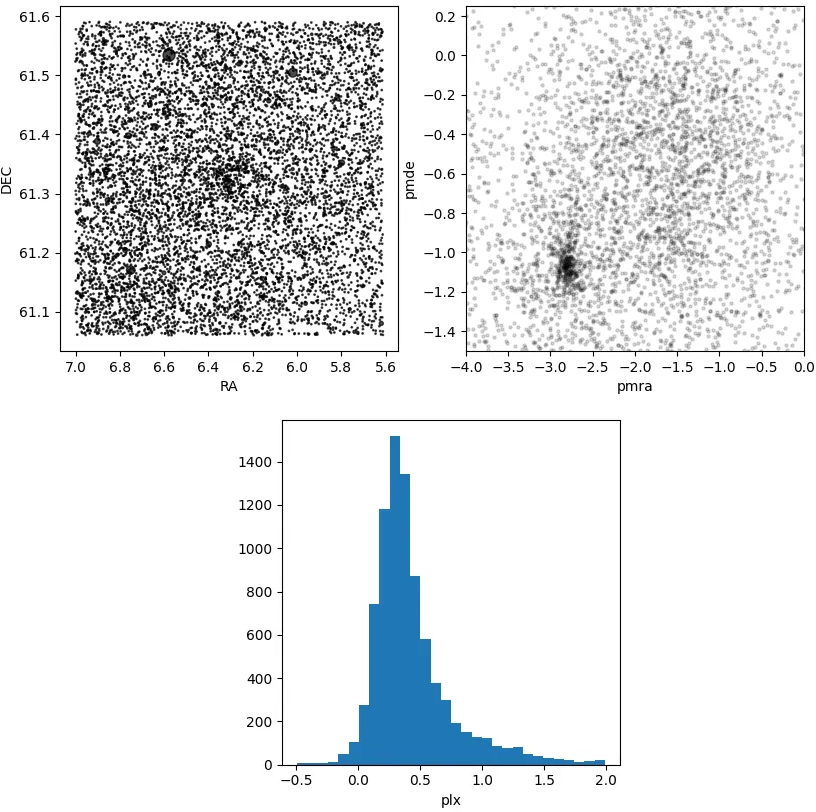
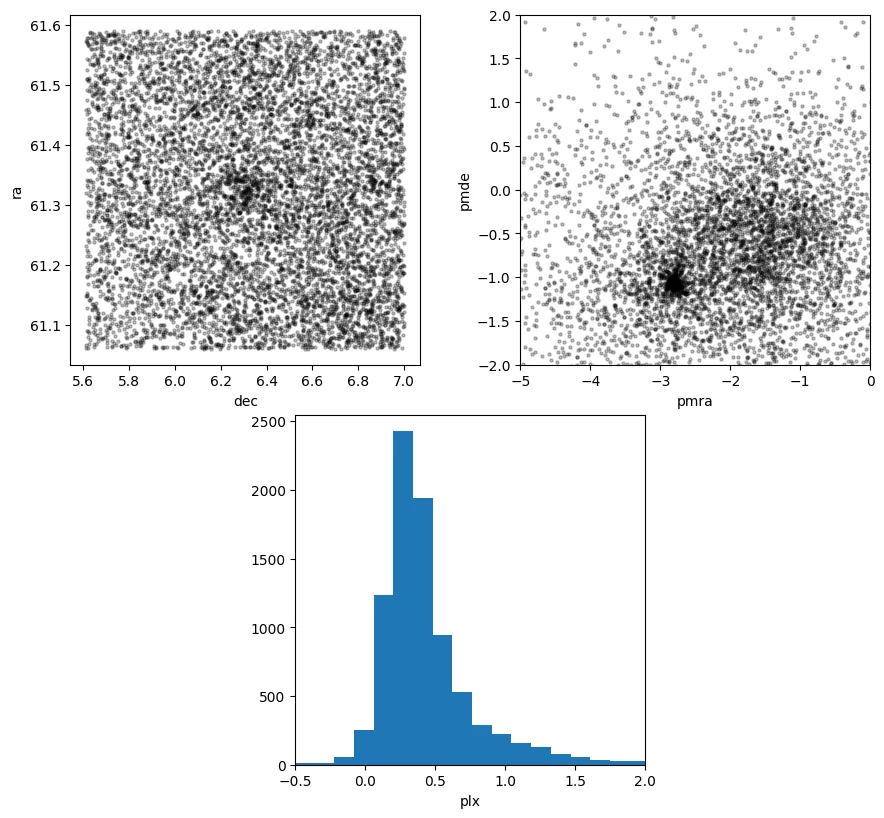
updt some figs

Changed region(s): [[0.0, 0.0, 1.0, 1.0], [0.2757, 0.5542, 0.337, 0.8005]]

diff --git a/docs/_static/synth_plot.py b/docs/_static/synth_plot.py
@@ -1,0 +1,170 @@
+import matplotlib.pyplot as plt
+import numpy as np
+import pandas as pd
+
+import asteca
+
+
+def main():
+    df = pd.read_csv("cluster.csv")
+
+    # Isochrones parameters
+    isochs = asteca.isochrones(
+        model="parsec",
+        isochs_path="parsec",
+        magnitude="Gmag",
+        color=("G_BPmag", "G_RPmag"),
+        magnitude_effl=6390.7,
+        color_effl=(5182.58, 7825.08),
+        verbose=3,
+    )
+
+    # Synthetic clusters parameters
+    synthcl = asteca.synthetic(isochs, seed=42)
+
+    # Generate a `cluster` object
+    my_cluster = asteca.cluster(
+        magnitude=df["Gmag"],
+        e_mag=df["e_Gmag"],
+        color=df["BP-RP"],
+        e_color=df["e_BP-RP"],
+        verbose=2,
+    )
+
+    fix_params = {"alpha": 0.0, "beta": 1.0, "Rv": 3.1, "met": 0.0152, "DR": 0.0}
+    synthcl.calibrate(my_cluster, fix_params)
+
+    fit_params = {"loga": 8.0, "Av": 0.1, "dm": 8}
+
+    # Generate synthetic cluster.
+    synth_clust = synthcl.generate(fit_params, full_arr_flag=True)
+    breakpoint()
+    if synthcl.binar_flag is True:
+        binar_idx = ~np.isnan(synth_clust[-1])
+    else:
+        # No binary systems
+        binar_idx = np.full(synth_clust.shape[1], False)
+
+    y_synth = synth_clust[0]
+    x_synth = synth_clust[1]
+
+    plot1(x_synth, y_synth, binar_idx)
+    plot2(my_cluster, x_synth, y_synth, binar_idx)
+    isoch_arr = synthcl.get_isochrone(fit_params)
+    plot3(my_cluster, x_synth, y_synth, binar_idx, isoch_arr)
+
+
+def plot1(x_synth, y_synth, binar_idx):
+    """ """
+    plt.figure(figsize=(7, 5))
+
+    # Single synthetic systems
+    plt.scatter(
+        x_synth[~binar_idx],
+        y_synth[~binar_idx],
+        marker="^",
+        c="#519ddb",
+        alpha=0.5,
+        label=f"Synthetic single, N={len(x_synth[~binar_idx])}",
+    )
+    # Binary synthetic systems
+    plt.scatter(
+        x_synth[binar_idx],
+        y_synth[binar_idx],
+        marker="v",
+        c="#F34C4C",
+        alpha=0.5,
+        label=f"Synthetic binary, N={len(x_synth[binar_idx])}",
+    )
+
+    plt.xlabel("color")
+    plt.ylabel("mag")
+    plt.legend()
+
+    plt.gca().invert_yaxis()
+    plt.tight_layout()
+    plt.savefig("synthplot.webp", dpi=300, bbox_inches="tight")
+
+
+def plot2(my_cluster, x_synth, y_synth, binar_idx):
+    plt.figure(figsize=(7, 5))
+
+    plt.scatter(
+        my_cluster.colors[0],
+        my_cluster.mag,
+        c="green",
+        alpha=0.5,
+        label=f"Observed, N={len(my_cluster.mag)}",
+    )
+
+    # Single synthetic systems
+    plt.scatter(
+        x_synth[~binar_idx],
+        y_synth[~binar_idx],
+        marker="^",
+        c="#519ddb",
+        alpha=0.5,
+        label=f"Synthetic single, N={len(x_synth[~binar_idx])}",
+    )
+    # Binary synthetic systems
+    plt.scatter(
+        x_synth[binar_idx],
+        y_synth[binar_idx],
+        marker="v",
+        c="#F34C4C",
+        alpha=0.5,
+        label=f"Synthetic binary, N={len(x_synth[binar_idx])}",
+    )
+
+    plt.xlabel("color")
+    plt.ylabel("mag")
+    plt.legend()
+
+    plt.gca().invert_yaxis()
+    plt.tight_layout()
+    plt.savefig("obs_synthplot.webp", dpi=300, bbox_inches="tight")
+
+
+def plot3(my_cluster, x_synth, y_synth, binar_idx, isoch_arr):
+    plt.figure(figsize=(7, 5))
+
+    plt.scatter(
+        my_cluster.colors[0],
+        my_cluster.mag,
+        c="green",
+        alpha=0.5,
+        label=f"Observed, N={len(my_cluster.mag)}",
+    )
+
+    # Single synthetic systems
+    plt.scatter(
+        x_synth[~binar_idx],
+        y_synth[~binar_idx],
+        marker="^",
+        c="#519ddb",
+        alpha=0.5,
+        label=f"Synthetic single, N={len(x_synth[~binar_idx])}",
+    )
+    # Binary synthetic systems
+    plt.scatter(
+        x_synth[binar_idx],
+        y_synth[binar_idx],
+        marker="v",
+        c="#F34C4C",
+        alpha=0.5,
+        label=f"Synthetic binary, N={len(x_synth[binar_idx])}",
+    )
+
+    plt.xlabel("color")
+    plt.ylabel("mag")
+    plt.legend()
+
+    plt.plot(isoch_arr[1], isoch_arr[0], c="k")
+
+    plt.gca().invert_yaxis()
+    plt.tight_layout()
+    plt.savefig("obs_synthplot_isoch.webp", dpi=300, bbox_inches="tight")
+
+
+if __name__ == "__main__":
+    main()

diff --git a/docs/_static/field_plot.py b/docs/_static/field_plot.py
@@ -1,0 +1,62 @@
+import matplotlib.pyplot as plt
+import pandas as pd
+
+import asteca
+
+df = pd.read_csv("field.csv")
+
+# Generate a `cluster` object
+my_cluster = asteca.cluster(
+    ra=df['RA_ICRS'],
+    dec=df['DE_ICRS'],
+    magnitude=df["Gmag"],
+    e_mag=df["e_Gmag"],
+    color=df["BP-RP"],
+    e_color=df['e_BP-RP'],
+    pmra=df["pmRA"],
+    e_pmra=df["e_pmRA"],
+    pmde=df["pmDE"],
+    e_pmde=df["e_pmDE"],
+    plx=df["Plx"],
+    e_plx=df["e_Plx"],
+    verbose=2
+)
+
+my_cluster.get_center()
+
+breakpoint()
+# Access estimated center values
+ra_c, dec_c = my_cluster.radec_c
+pmra_c, pmde_c = my_cluster.pms_c
+plx_c = my_cluster.plx_c
+
+# Create figure and a custom GridSpec layout
+fig = plt.figure(figsize=(10, 10))
+
+# Create the first plot in the top-left
+ax1 = fig.add_axes([0.1, 0.5, 0.35, 0.35])
+ax1.scatter(my_cluster.ra, my_cluster.dec, c="k", alpha=0.25, s=5)
+ax1.scatter(ra_c, dec_c, marker="x", s=50, c="r")
+ax1.set_xlabel("dec")
+ax1.set_ylabel("ra")
+
+# Create the second plot in the top-right
+ax2 = fig.add_axes([0.55, 0.5, 0.35, 0.35])
+ax2.scatter(my_cluster.pmra, my_cluster.pmde, c="k", alpha=0.25, s=5)
+ax2.scatter(pmra_c, pmde_c, marker="x", s=50, c="r")
+ax2.set_xlabel("pmra")
+ax2.set_ylabel("pmde")
+ax2.set_xlim(-5, 0)
+ax2.set_ylim(-2, 2)
+
+# Create the third plot in the middle of the second row
+ax3 = fig.add_axes([0.325, 0.1, 0.35, 0.35])  # Centered below
+ax3.hist(my_cluster.plx, 150)
+ax3.axvline(plx_c, c="r", ls=":", lw=3)
+ax3.set_xlabel("plx")
+ax3.set_xlim(-0.5, 2)
+
+plt.tight_layout()
+# plt.savefig("field.webp", bbox_inches="tight")
+plt.savefig("field2.webp", bbox_inches="tight")
+
